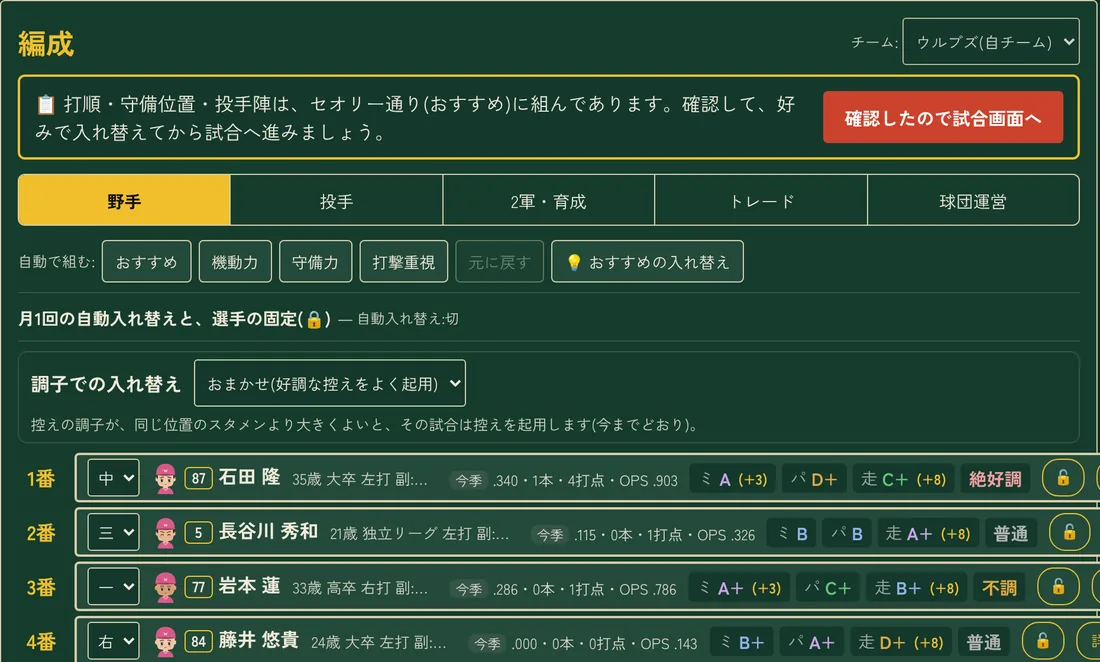
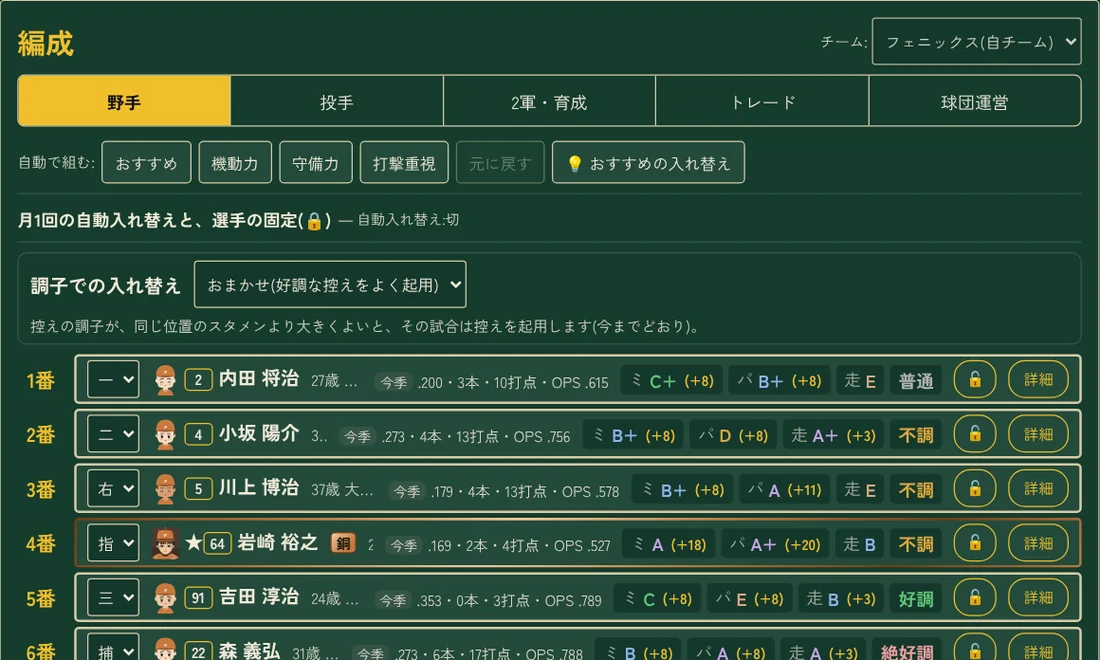
本文に軽い動きを入れ、写真4枚を v1.8.v で撮り直した
- 本文:画面に入ったら少し下からふわっと現れる(A)。号外の写真は紙が舞い落ちるように(B)。動きを減らす設定・JS なしでは最初から全部見える
- 写真:観戦(打席の人物の新しい描き方)・号外(リーグ優勝・金の題字)・編成・順位表(予想の列)。alt と写真の下の文も直した
- shots.py(写真を撮る道具)・motion_check.py(動きの確かめ 12項目)・README
- site_check.py 24/26(11・13 は前からの広告の項目)

Claude-Session: https://claude.ai/code/session_01NaRMH1MUnvkcA56zWMcups

diff --git a/index.html b/index.html
@@ -174,6 +174,20 @@ footer p{max-width:none}
   .plates.sub .plate{animation-delay:900ms}
   @keyframes hang{from{transform:rotateX(-92deg); opacity:0} to{transform:rotateX(0); opacity:1}}
 }
+/* ---- 動き:本文が画面に入ったら、少し下からふわっと(1回だけ)。号外の写真は紙が舞い落ちるように ----
+   隠すのは JS が「まだ見えていない所」に .rv を付けたときだけ(JS が動かない・動きを減らす設定では、最初から全部見える) */
+.mo .rv{opacity:0; transform:translateY(22px)}
+.mo #features{overflow-x:clip}   /* 舞い落ちる号外の写真が、傾いている間に横へはみ出さないように */
+.mo .rv.in{opacity:1; transform:none; transition:opacity .7s ease, transform .7s cubic-bezier(.2,.7,.25,1); transition-delay:var(--d,0ms)}
+.mo .rv.paperIn{transform:translate(-14px,-70px) rotate(-7deg); transform-origin:50% 0}
+.mo .rv.paperIn.in{animation:paperDrop 1.15s cubic-bezier(.3,.6,.35,1) both; transition:none}
+@keyframes paperDrop{
+  0%{opacity:0; transform:translate(-14px,-70px) rotate(-7deg)}
+  25%{opacity:1}
+  55%{transform:translate(8px,6px) rotate(2.5deg)}
+  78%{transform:translate(-3px,-2px) rotate(-1deg)}
+  100%{opacity:1; transform:none}
+}
 </style>
 </head>
 <body>
@@ -231,7 +245,7 @@ footer p{max-width:none}
           <p>勝負どころでは、代打・継投・バント・盗塁・スクイズ・エンドランを自分で決められます。任せたいときは「おまかせ」で進みます。</p>
         </div>
         <figure class="shot phone">
-          <div class="plateframe"><img src="assets/watch.webp" width="716" height="1378" alt="スマホ幅のハイライト観戦の画面。2回表、2アウト二・三塁の場面で、打者がバットを構えている。ゾーンに球の通った場所の印と、球種と球速が出ている" loading="lazy"></div>
+          <div class="plateframe"><img src="assets/watch.webp" width="716" height="1376" alt="スマホ幅のハイライト観戦の画面。4回裏、同点で2アウト二・三塁の場面で、打者がバットを構えている。ゾーンに球の通った場所の印と、球種と球速が出ている" loading="lazy"></div>
           <figcaption>ハイライト観戦(スマホ幅)</figcaption>
         </figure>
       </div>
@@ -243,8 +257,8 @@ footer p{max-width:none}
           <p>球団旗は、頭文字と形と柄で選べます。創立から10年ごとに、記念の旗が増えます。</p>
         </div>
         <figure class="shot">
-          <div class="plateframe"><img src="assets/news.webp" width="900" height="1080" alt="号外の例。見出しは「徳島ノーザンウルブズ、創立60周年」で、記念の銀の球団旗が紹介されている" loading="lazy"></div>
-          <figcaption>号外(創立60周年)</figcaption>
+          <div class="plateframe"><img src="assets/news.webp" width="988" height="1037" alt="リーグ優勝の号外。金色の題字で、見出しは「青森ゴールデンフェニックス、ペナント奪取」。選手たちが監督を胴上げする絵が載っている" loading="lazy"></div>
+          <figcaption>号外(リーグ優勝)</figcaption>
         </figure>
       </div>
 
@@ -255,7 +269,7 @@ footer p{max-width:none}
           <p>選手には調子・スキル・性格があります。同じ打率でも、中身が違います。</p>
         </div>
         <figure class="shot">
-          <div class="plateframe"><img src="assets/lineup.webp" width="1100" height="662" alt="編成の画面。打順ごとに、守備位置・年齢・今季の成績・調子が並んでいる" loading="lazy"></div>
+          <div class="plateframe"><img src="assets/lineup.webp" width="1100" height="660" alt="編成の画面。打順ごとに、守備位置・年齢・今季の成績・能力・調子が並んでいる" loading="lazy"></div>
           <figcaption>編成</figcaption>
         </figure>
       </div>
@@ -267,7 +281,7 @@ footer p{max-width:none}
           <p>試合の結果と成績は、すべて乱数によるシミュレーションです。</p>
         </div>
         <figure class="shot">
-          <div class="plateframe"><img src="assets/standings.webp" width="1100" height="522" alt="順位表。6球団の勝敗、勝率、ゲーム差、人気が並び、連勝中の球団に印が付いている" loading="lazy"></div>
+          <div class="plateframe"><img src="assets/standings.webp" width="1100" height="588" alt="順位表。6球団の勝敗、勝率、ゲーム差、開幕前の予想(何位の予想から上がったか下がったか)、人気が並んでいる" loading="lazy"></div>
           <figcaption>順位表</figcaption>
         </figure>
       </div>
@@ -348,6 +362,23 @@ footer p{max-width:none}
   </main>
 </div>
 <script>
+/* 本文の動き(A:ふわっと現れる/B:号外の写真が舞い落ちる)。動きを減らす設定・古いブラウザでは何もしない */
+(function(){
+  var mq=window.matchMedia && window.matchMedia('(prefers-reduced-motion: reduce)');
+  if((mq && mq.matches) || !('IntersectionObserver' in window)) return;
+  var sel=['main section:not(.hero) > h2','.feat > div','.feat .shot','.more','.steps li','.news li','#notes p','#notes li','.share'];
+  var els=[].slice.call(document.querySelectorAll(sel.join(','))), vh=window.innerHeight;
+  els=els.filter(function(e,i){ return els.indexOf(e)===i && e.getBoundingClientRect().top>vh*0.92; });   /* 最初から見えている所は動かさない */
+  if(!els.length) return;
+  document.documentElement.classList.add('mo');
+  [].forEach.call(document.querySelectorAll('.steps,.news'),function(list){
+    [].slice.call(list.children).forEach(function(li,i){ li.style.setProperty('--d',Math.min(i,6)*90+'ms'); });
+  });
+  var paper=document.querySelector('img[src$="news.webp"]'); paper=paper && paper.closest('.shot');
+  els.forEach(function(e){ e.classList.add('rv'); if(e===paper) e.classList.add('paperIn'); });
+  var io=new IntersectionObserver(function(es){ es.forEach(function(en){ if(en.isIntersecting){ en.target.classList.add('in'); io.unobserve(en.target); } }); },{rootMargin:'0px 0px -8% 0px',threshold:0.12});
+  els.forEach(function(e){ io.observe(e); });
+})();
 (function(){
   var secs=[].slice.call(document.querySelectorAll('section[data-k]'));
   var links=[].slice.call(document.querySelectorAll('#railList a'));

diff --git a/index.template.html b/index.template.html
@@ -174,6 +174,20 @@ footer p{max-width:none}
   .plates.sub .plate{animation-delay:900ms}
   @keyframes hang{from{transform:rotateX(-92deg); opacity:0} to{transform:rotateX(0); opacity:1}}
 }
+/* ---- 動き:本文が画面に入ったら、少し下からふわっと(1回だけ)。号外の写真は紙が舞い落ちるように ----
+   隠すのは JS が「まだ見えていない所」に .rv を付けたときだけ(JS が動かない・動きを減らす設定では、最初から全部見える) */
+.mo .rv{opacity:0; transform:translateY(22px)}
+.mo #features{overflow-x:clip}   /* 舞い落ちる号外の写真が、傾いている間に横へはみ出さないように */
+.mo .rv.in{opacity:1; transform:none; transition:opacity .7s ease, transform .7s cubic-bezier(.2,.7,.25,1); transition-delay:var(--d,0ms)}
+.mo .rv.paperIn{transform:translate(-14px,-70px) rotate(-7deg); transform-origin:50% 0}
+.mo .rv.paperIn.in{animation:paperDrop 1.15s cubic-bezier(.3,.6,.35,1) both; transition:none}
+@keyframes paperDrop{
+  0%{opacity:0; transform:translate(-14px,-70px) rotate(-7deg)}
+  25%{opacity:1}
+  55%{transform:translate(8px,6px) rotate(2.5deg)}
+  78%{transform:translate(-3px,-2px) rotate(-1deg)}
+  100%{opacity:1; transform:none}
+}
 </style>
 </head>
 <body>
@@ -231,7 +245,7 @@ footer p{max-width:none}
           <p>勝負どころでは、代打・継投・バント・盗塁・スクイズ・エンドランを自分で決められます。任せたいときは「おまかせ」で進みます。</p>
         </div>
         <figure class="shot phone">
-          <div class="plateframe"><img src="assets/watch.webp" width="716" height="1378" alt="スマホ幅のハイライト観戦の画面。2回表、2アウト二・三塁の場面で、打者がバットを構えている。ゾーンに球の通った場所の印と、球種と球速が出ている" loading="lazy"></div>
+          <div class="plateframe"><img src="assets/watch.webp" width="716" height="1376" alt="スマホ幅のハイライト観戦の画面。4回裏、同点で2アウト二・三塁の場面で、打者がバットを構えている。ゾーンに球の通った場所の印と、球種と球速が出ている" loading="lazy"></div>
           <figcaption>ハイライト観戦(スマホ幅)</figcaption>
         </figure>
       </div>
@@ -243,8 +257,8 @@ footer p{max-width:none}
           <p>球団旗は、頭文字と形と柄で選べます。創立から10年ごとに、記念の旗が増えます。</p>
         </div>
         <figure class="shot">
-          <div class="plateframe"><img src="assets/news.webp" width="900" height="1080" alt="号外の例。見出しは「徳島ノーザンウルブズ、創立60周年」で、記念の銀の球団旗が紹介されている" loading="lazy"></div>
-          <figcaption>号外(創立60周年)</figcaption>
+          <div class="plateframe"><img src="assets/news.webp" width="988" height="1037" alt="リーグ優勝の号外。金色の題字で、見出しは「青森ゴールデンフェニックス、ペナント奪取」。選手たちが監督を胴上げする絵が載っている" loading="lazy"></div>
+          <figcaption>号外(リーグ優勝)</figcaption>
         </figure>
       </div>
 
@@ -255,7 +269,7 @@ footer p{max-width:none}
           <p>選手には調子・スキル・性格があります。同じ打率でも、中身が違います。</p>
         </div>
         <figure class="shot">
-          <div class="plateframe"><img src="assets/lineup.webp" width="1100" height="662" alt="編成の画面。打順ごとに、守備位置・年齢・今季の成績・調子が並んでいる" loading="lazy"></div>
+          <div class="plateframe"><img src="assets/lineup.webp" width="1100" height="660" alt="編成の画面。打順ごとに、守備位置・年齢・今季の成績・能力・調子が並んでいる" loading="lazy"></div>
           <figcaption>編成</figcaption>
         </figure>
       </div>
@@ -267,7 +281,7 @@ footer p{max-width:none}
           <p>試合の結果と成績は、すべて乱数によるシミュレーションです。</p>
         </div>
         <figure class="shot">
-          <div class="plateframe"><img src="assets/standings.webp" width="1100" height="522" alt="順位表。6球団の勝敗、勝率、ゲーム差、人気が並び、連勝中の球団に印が付いている" loading="lazy"></div>
+          <div class="plateframe"><img src="assets/standings.webp" width="1100" height="588" alt="順位表。6球団の勝敗、勝率、ゲーム差、開幕前の予想(何位の予想から上がったか下がったか)、人気が並んでいる" loading="lazy"></div>
           <figcaption>順位表</figcaption>
         </figure>
       </div>
@@ -348,6 +362,23 @@ footer p{max-width:none}
   </main>
 </div>
 <script>
+/* 本文の動き(A:ふわっと現れる/B:号外の写真が舞い落ちる)。動きを減らす設定・古いブラウザでは何もしない */
+(function(){
+  var mq=window.matchMedia && window.matchMedia('(prefers-reduced-motion: reduce)');
+  if((mq && mq.matches) || !('IntersectionObserver' in window)) return;
+  var sel=['main section:not(.hero) > h2','.feat > div','.feat .shot','.more','.steps li','.news li','#notes p','#notes li','.share'];
+  var els=[].slice.call(document.querySelectorAll(sel.join(','))), vh=window.innerHeight;
+  els=els.filter(function(e,i){ return els.indexOf(e)===i && e.getBoundingClientRect().top>vh*0.92; });   /* 最初から見えている所は動かさない */
+  if(!els.length) return;
+  document.documentElement.classList.add('mo');
+  [].forEach.call(document.querySelectorAll('.steps,.news'),function(list){
+    [].slice.call(list.children).forEach(function(li,i){ li.style.setProperty('--d',Math.min(i,6)*90+'ms'); });
+  });
+  var paper=document.querySelector('img[src$="news.webp"]'); paper=paper && paper.closest('.shot');
+  els.forEach(function(e){ e.classList.add('rv'); if(e===paper) e.classList.add('paperIn'); });
+  var io=new IntersectionObserver(function(es){ es.forEach(function(en){ if(en.isIntersecting){ en.target.classList.add('in'); io.unobserve(en.target); } }); },{rootMargin:'0px 0px -8% 0px',threshold:0.12});
+  els.forEach(function(e){ io.observe(e); });
+})();
 (function(){
   var secs=[].slice.call(document.querySelectorAll('section[data-k]'));
   var links=[].slice.call(document.querySelectorAll('#railList a'));

diff --git a/shots.py b/shots.py
@@ -1,0 +1,66 @@
+# 紹介ページの写真(assets/ の webp 4枚)を撮り直す道具
+# 使い方: PYTHONPATH=<開発用リポジトリ>/tools python3 shots.py <本編の index.html> <出力先のフォルダ>
+#   watch.webp  : スマホ幅(390・2倍)のハイライト観戦。打席の画面で3球目まで(乱数 3・2アウト二・三塁の場面)
+#   news.webp   : 優勝の号外(乱数 4 の1年目。幅 450・2倍。上から 540 まで)
+#   lineup.webp : 編成の野手(PC 幅 1100。40試合のあと)
+#   standings.webp: 順位表(PC 幅 1100。40試合のあと。予想の列つき)
+import sys, os
+from h import *
+from PIL import Image
+URL = "file://" + os.path.abspath(sys.argv[1]); OUT = sys.argv[2]; os.makedirs(OUT, exist_ok=True)
+FIND = """()=>{ for(let g=0; g<200 && gameIdx<schedule.length; g++){ if(typeof cupBusy==="function" && cupBusy()){ cupAuto(); continue; }
+    const x=simScheduledGame(); if(!x||!x.isMy) continue;
+    const q=pickHighlights((x.r.log&&x.r.log.events)||[], league[myTeam].name);
+    const k=q.findIndex(ev=>{ if(!Array.isArray(ev.pn) || !bcEachOn(ev)) return false; const bc=bcOfEv(ev); return !!bc && bc.seq.length>=3; });
+    if(k<0) continue;
+    const t=q[k]; startHighlightReel(x.r); const j=highlightQueue.findIndex(e=>e.inn===t.inn && e.half===t.half && e.batter===t.batter && e.pitcher===t.pitcher && e.po===t.po && e.kind===t.kind); if(j<0){ closeHighlights(); continue; }
+    highlightIdx=j; renderHighlightScene(); return {inn:t.inn, half:t.half, batter:t.batter}; }
+  return null; }"""
+def webp(png, out, w=None, h=None, crop=None):
+    im = Image.open(png).convert("RGB")
+    if crop: im = im.crop(crop)
+    im.save(out, "WEBP", quality=86, method=6); return Image.open(out).size
+def page(br, w, h, dpr, seed):
+    ctx = br.new_context(viewport={"width": w, "height": h}, device_scale_factor=dpr); pg = ctx.new_page(); pg.errs = []
+    pg.on("pageerror", lambda e: pg.errs.append(str(e)))
+    pg.add_init_script(SEED_JS % (seed, "")); pg.goto(URL, wait_until="domcontentloaded"); pg.wait_for_timeout(500); return pg
+with sync_playwright() as pw:
+    br = pw.chromium.launch()
+    # 1 観戦
+    pg = page(br, 390, 844, 2, 3); create(pg, {"tacSel": "off"})
+    pg.evaluate("()=>{ HLO.speed='normal'; HLO.bc='each'; HLO.bcv='bat'; }")
+    f = pg.evaluate(FIND); got = False
+    for _ in range(300):
+        st = pg.evaluate("()=>{ const m=document.getElementById('bcvMarks'), b=document.getElementById('bcfBat'), p=document.getElementById('bcfPit'); return [m? m.children.length : 0, b? b.className.baseVal||b.getAttribute('class')||'' : 'x', p? p.getAttribute('data-f') : 'x']; }")
+        if st[0] >= 2 and "sw" not in st[1] and "fo" not in st[1] and st[2] == "0":
+            pg.wait_for_timeout(250); pg.locator("#highlightOverlay .hlBox").screenshot(path="/tmp/s_watch.png"); got = True; break
+        pg.wait_for_timeout(40)
+    print("watch", f, got, webp("/tmp/s_watch.png", os.path.join(OUT, "watch.webp")) if got else None, pg.errs[:2])
+    pg.context.close()
+    # 2 号外(優勝)
+    pg = page(br, 560, 1100, 2, 4); create(pg); pg.evaluate(SEASON)
+    nid = pg.evaluate("()=>{ const n=newsArchive.find(n=>n.kind==='pennant'); return n && n.id; }")
+    pg.evaluate("(id)=>openNews(id)", nid); pg.wait_for_timeout(800)
+    sel = pg.evaluate("""()=>{ const c=[...document.querySelectorAll('#playerModal *')].filter(e=>{ const r=e.getBoundingClientRect(); return r.width>380 && r.height>500 && /np|paper|nl/i.test(e.className||''); });
+        c.sort((a,b)=>a.getBoundingClientRect().width-b.getBoundingClientRect().width); return c.map(e=>e.tagName+'.'+String(e.className).split(' ').join('.')+' '+Math.round(e.getBoundingClientRect().width)+'x'+Math.round(e.getBoundingClientRect().height)).slice(0,4); }""")
+    print("news cands", sel)
+    pg.screenshot(path="/tmp/s_news_full.png", full_page=False)
+    pg.locator("#playerModal article.paper").screenshot(path="/tmp/s_news.png")
+    im = Image.open("/tmp/s_news.png"); print("news", im.size, webp("/tmp/s_news.png", os.path.join(OUT, "news.webp"), crop=(0, 0, im.size[0], min(im.size[1], round(im.size[0]*1.05)))))
+    pg.context.close()
+    # 3・4 編成・順位表(40試合のあと)
+    pg = page(br, 1100, 900, 1.25, 4); create(pg)
+    pg.evaluate("()=>{ for(let g=0; g<400 && league[myTeam].w+league[myTeam].l<40; g++){ if(typeof cupBusy==='function' && cupBusy()){ cupAuto(); continue; } simScheduledGame(); } }")
+    pg.evaluate("()=>{ try{ closeModal(); }catch(e){} }")
+    pg.add_style_tag(content="#toast,#tipHost{display:none!important}")
+    pg.click("#mainNav [data-p=lineup]"); pg.wait_for_timeout(600)
+    pg.evaluate("()=>{ const n=document.getElementById('openingNotice'); if(n) n.classList.add('hidden'); }")
+    b = pg.locator("#p-lineup .card").first.bounding_box()
+    pg.screenshot(path="/tmp/s_lineup.png", clip={"x": b["x"], "y": b["y"], "width": b["width"], "height": round(b["width"] * 0.6)})
+    pg.click("#mainNav [data-p=standings]"); pg.wait_for_timeout(600)
+    pg.locator("#p-standings .card").first.screenshot(path="/tmp/s_stand.png")
+    for src, name in (("/tmp/s_lineup.png", "lineup.webp"), ("/tmp/s_stand.png", "standings.webp")):
+        im = Image.open(src).convert("RGB"); im = im.resize((1100, round(im.size[1] * 1100 / im.size[0])), Image.LANCZOS); im.save(src)
+        print(name, webp(src, os.path.join(OUT, name)))
+    print("pc", pg.evaluate("()=>[league[myTeam].w,league[myTeam].l]"), pg.errs[:2])
+    br.close()

diff --git a/motion_check.py b/motion_check.py
@@ -1,0 +1,44 @@
+# 紹介ページの本文の動き(A:ふわっと現れる/B:号外の写真が舞い落ちる)の確かめ
+# 使い方: python3 motion_check.py index.html [写しを置くフォルダ]
+import sys, os
+from playwright.sync_api import sync_playwright
+P = "file://" + os.path.abspath(sys.argv[1]); SHOT = sys.argv[2] if len(sys.argv) > 2 else None
+res = []
+def ck(n, ok, info=""): res.append(bool(ok)); print(("OK  " if ok else "NG  ") + n + ("" if ok else " :: " + str(info)[:300]), flush=True)
+HID = "()=>[...document.querySelectorAll('.rv')].filter(e=>!e.classList.contains('in')).length"
+with sync_playwright() as p:
+    br = p.chromium.launch()
+    for w, h in ((1280, 900), (390, 844)):
+        c = br.new_context(viewport={"width": w, "height": h}, reduced_motion="no-preference"); pg = c.new_page(); errs = []
+        pg.on("pageerror", lambda e: errs.append(str(e)))
+        pg.goto(P); pg.wait_for_timeout(600)
+        top = pg.evaluate("()=>{ const vh=innerHeight; return [...document.querySelectorAll('h1,h2,p,img,li,figure')].filter(e=>{ const r=e.getBoundingClientRect(); return r.bottom>0 && r.top<vh*0.9 && r.height>0; }).filter(e=>getComputedStyle(e).opacity<0.99 || (e.closest('.rv') && !e.closest('.rv').classList.contains('in'))).length; }")
+        n = pg.evaluate("()=>[document.documentElement.classList.contains('mo'), document.querySelectorAll('.rv').length, document.querySelectorAll('.rv.paperIn').length]")
+        ck(f"{w}px 1 動きが入る(.mo)・下の本文に .rv が付き、号外の写真だけ舞い落ちる形", n[0] and n[1] >= 10 and n[2] == 1, n)
+        ck(f"{w}px 2 開いた時に見えている所は隠れない", top == 0, top)
+        # 号外の写真の所までスクロールして、途中の形を見る
+        pg.evaluate("()=>{ const s=document.querySelector('.rv.paperIn'); window.scrollTo(0, s.getBoundingClientRect().top+scrollY-innerHeight*0.45); }")
+        sw = []
+        for i, t in enumerate((120, 250, 300, 500)):
+            pg.wait_for_timeout(t); sw.append(pg.evaluate("()=>document.documentElement.scrollWidth-innerWidth"))
+            if SHOT and w == 390: pg.screenshot(path=os.path.join(SHOT, f"paper_{i}.png"))
+        an = pg.evaluate("()=>{ const s=document.querySelector('.rv.paperIn'); return [s.classList.contains('in'), getComputedStyle(s).animationName]; }")
+        ck(f"{w}px 3 号外の写真は画面に入ると舞い落ちる(paperDrop)・その間も横にはみ出さない", an == [True, "paperDrop"] and max(sw) <= 0, [an, sw])
+        # 最後までスクロールすると、隠れた所が残らない
+        for y in range(0, 20000, 500):
+            pg.evaluate(f"()=>window.scrollTo(0,{y})"); pg.wait_for_timeout(60)
+        pg.wait_for_timeout(1300)
+        left = pg.evaluate(HID); op = pg.evaluate("()=>[...document.querySelectorAll('.rv')].filter(e=>+getComputedStyle(e).opacity<0.99).length")
+        ck(f"{w}px 4 下までスクロールすると全部現れる(隠れたまま0・薄いまま0)", left == 0 and op == 0, [left, op])
+        ck(f"{w}px 5 エラーなし", not errs, errs)
+        c.close()
+    # 動きを減らす設定
+    c = br.new_context(viewport={"width": 390, "height": 844}, reduced_motion="reduce"); pg = c.new_page(); pg.goto(P); pg.wait_for_timeout(500)
+    r = pg.evaluate("()=>[document.documentElement.classList.contains('mo'), document.querySelectorAll('.rv').length, [...document.querySelectorAll('.feat .shot')].every(e=>+getComputedStyle(e).opacity===1)]")
+    ck("6 動きを減らす設定では動かない(.mo も .rv も付かない・写真は最初から見える)", r == [False, 0, True], r); c.close()
+    # JS なし
+    c = br.new_context(viewport={"width": 390, "height": 844}, java_script_enabled=False); pg = c.new_page(); pg.goto(P); pg.wait_for_timeout(500)
+    r = pg.evaluate("()=>[...document.querySelectorAll('.feat .shot,.news li,.steps li')].every(e=>+getComputedStyle(e).opacity===1)") if False else pg.locator(".feat .shot").first.evaluate("e=>getComputedStyle(e).opacity")
+    ck("7 JS が動かなくても写真は見える", r == "1", r); c.close()
+    br.close()
+print(f"{sum(res)}/{len(res)}")

diff --git a/README.md b/README.md
@@ -14,9 +14,24 @@
    広告(おすすめ)欄を入れるときは、リンクの設定の JSON(形は `build_site.py` の頭に書いてある)を渡す:
    `python3 build_site.py index.template.html index.html affiliate_items.json`。
    広告欄には「広告」の札と、サービスの決まりの文がいつも付く。リンクは https:// だけ・最大4つ。
-3. **確かめ**:`python3 site_check.py 広告なしの index.html 広告ありの index_ad.html`(17項目。`index_ad.html` は JSON を渡して別名で作る)。
+3. **確かめ**:`python3 site_check.py 広告なしの index.html 広告ありの index_ad.html`(26項目。`index_ad.html` は JSON を渡して別名で作る。**このフォルダの中に作る**=`assets/` の絵がない所に作ると 15 が NG になる。11・13 はテスト用の広告の設定を前提にした項目で、いまの `affiliate_items.json` では NG になる)。本文の動きは `motion_check.py`。
 4. **体験版**:`play/index.html` を新しいサイト用の体験版に置き換える(名前は `index.html` のまま)。サイト用の体験版は、開発用リポジトリの `tools/site/` の道具(`make_lite_site.py`)で本編のソースから作る(いつもの体験版のファイルをそのまま置かないこと)。
 5. **本編**:`game/index.html` を新しい本編に置き換える。
+
+## 写真の撮り直し
+
+- `shots.py`:`assets/` の webp 4枚(観戦・号外・編成・順位表)を本編から撮り直す道具。開発用リポジトリの `tools/h.py` を使う:
+  `PYTHONPATH=<開発用リポジトリ>/tools python3 shots.py game/index.html assets`
+  - 観戦:スマホ幅(390・2倍)で、乱数 3 の「4回裏・同点・2アウト二・三塁」の打席。2球目以上・打者が構えているときに撮る
+  - 号外:乱数 4 の1年目のリーグ優勝の号外(幅 560・2倍。写真の下の説明の行まで)
+  - 編成・順位表:乱数 4 で40試合のあと(PC 幅 1100・1.25倍で枠を切り出して幅 1100 に)
+  - 本編の版が変わると、同じ乱数でも場面が変わることがある。撮ったら写しを見て、`index.template.html` の `<img>` の `width`・`height`・`alt` と写真の下の文を直す
+
+## 本文の動き
+
+- 見出し・説明・写真・はじめかたの手順・お知らせの行は、画面に入ったときに少し下からふわっと現れる(1回だけ。手順とお知らせは1行ずつ少しずらす)。号外の写真だけ、紙が舞い落ちるように現れる(`paperDrop`)
+- 隠すのは JS が「開いた時にまだ見えていない所」に `.rv` を付けたときだけ。JS が動かない・端末で動きを減らす設定にしている人には、最初から全部見える
+- 確かめ:`python3 motion_check.py index.html [写しのフォルダ]`(12項目)
 
 ## SNS の共有
 
